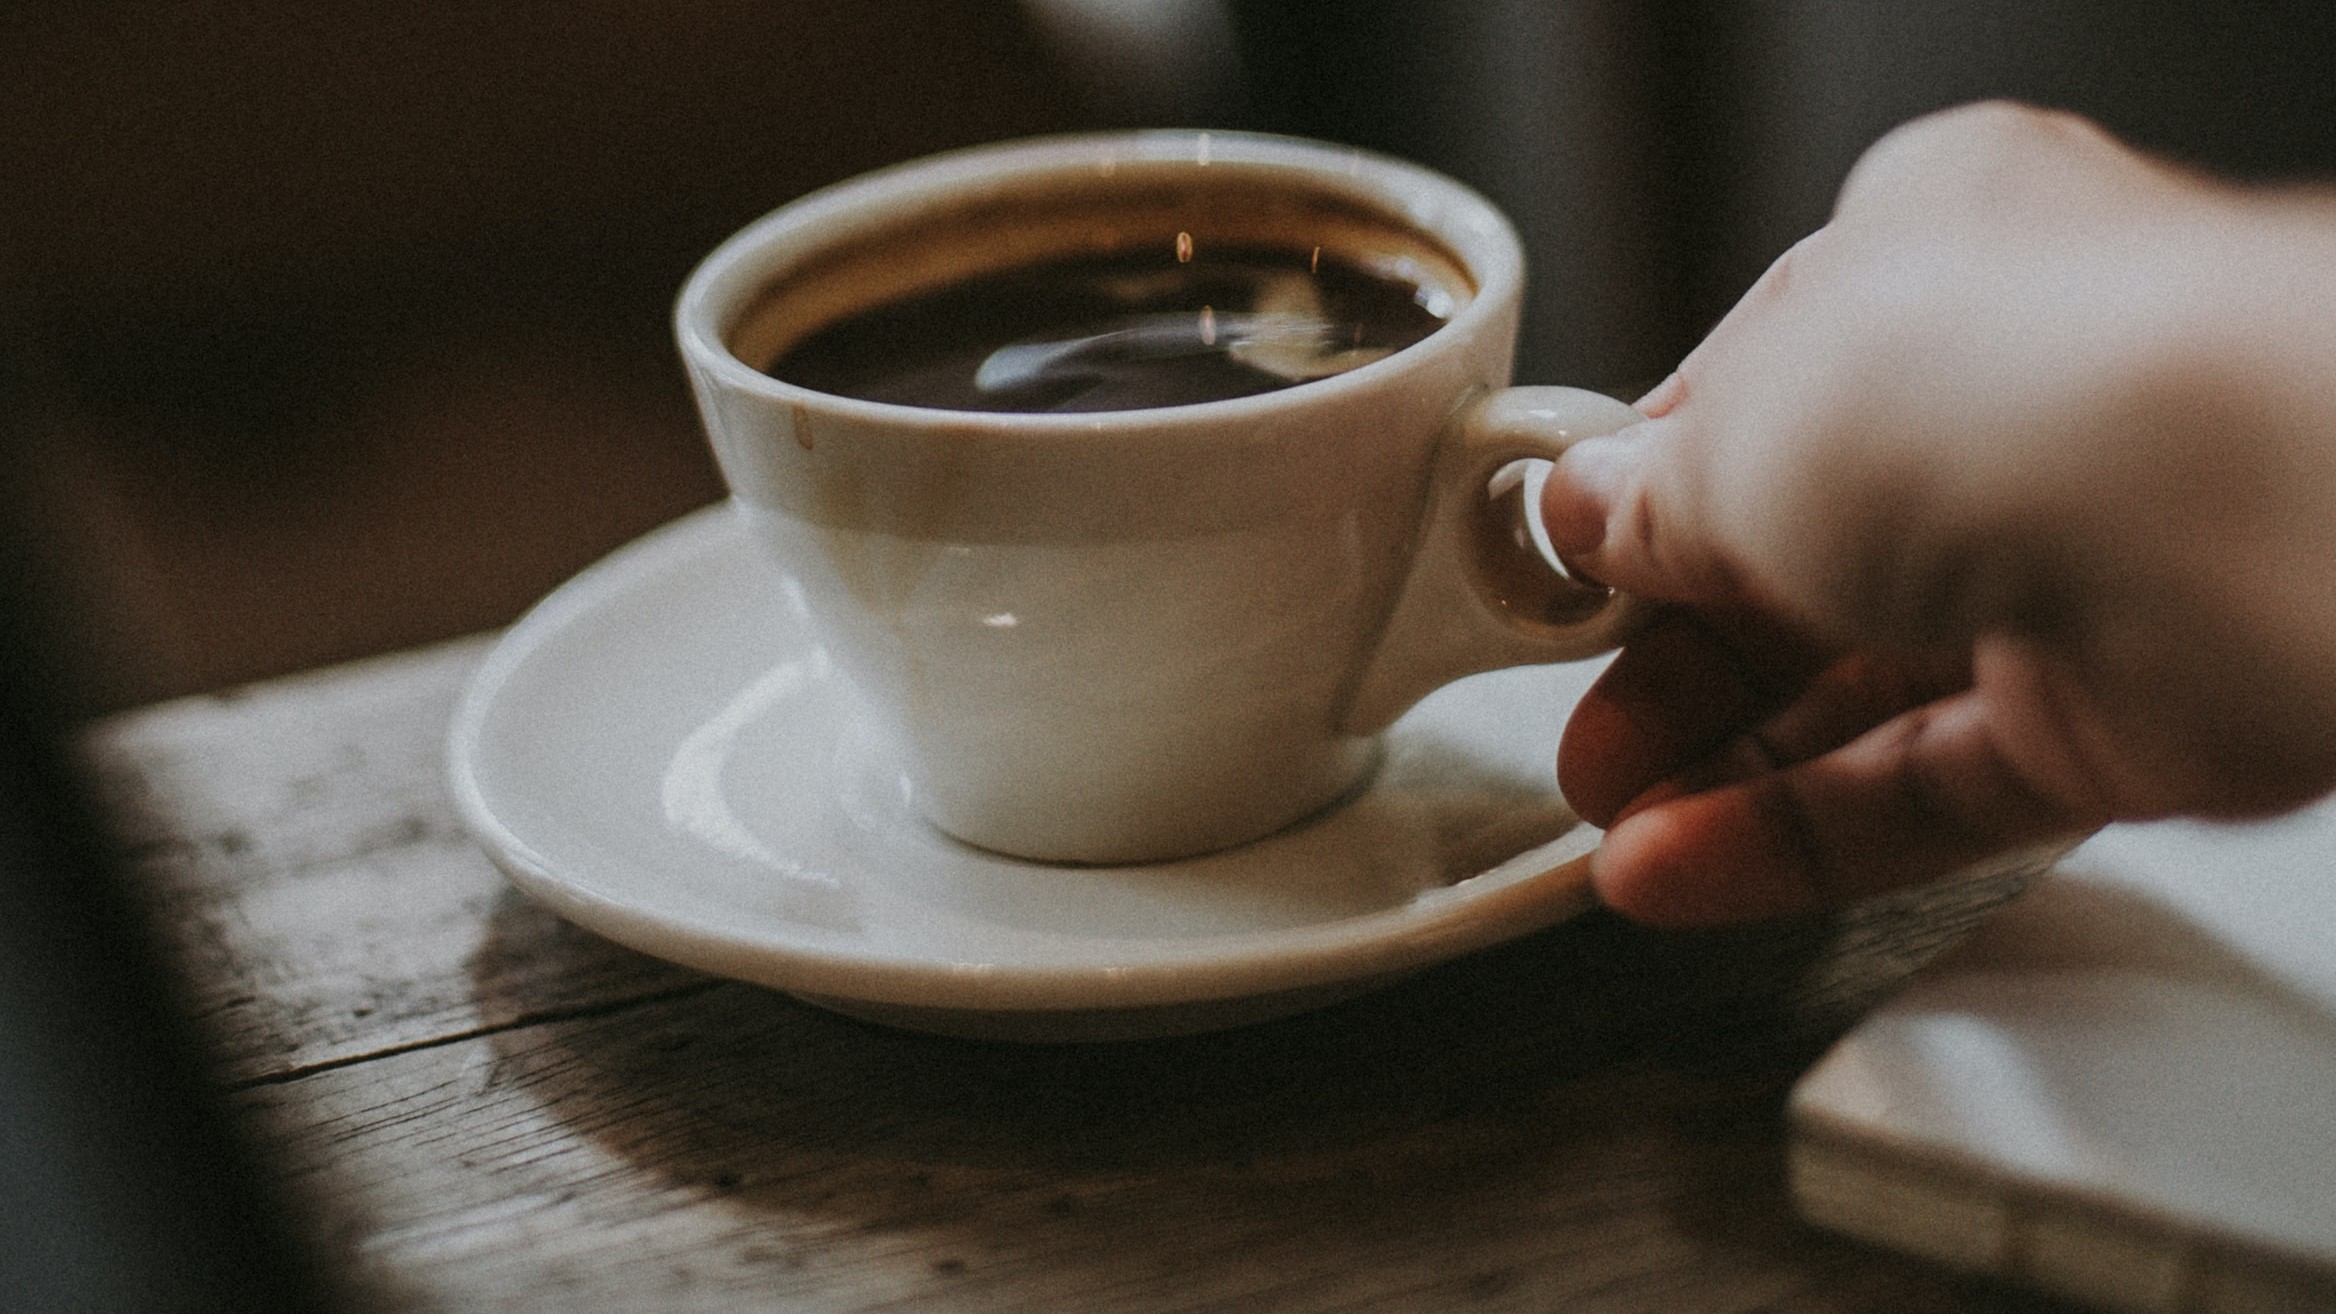
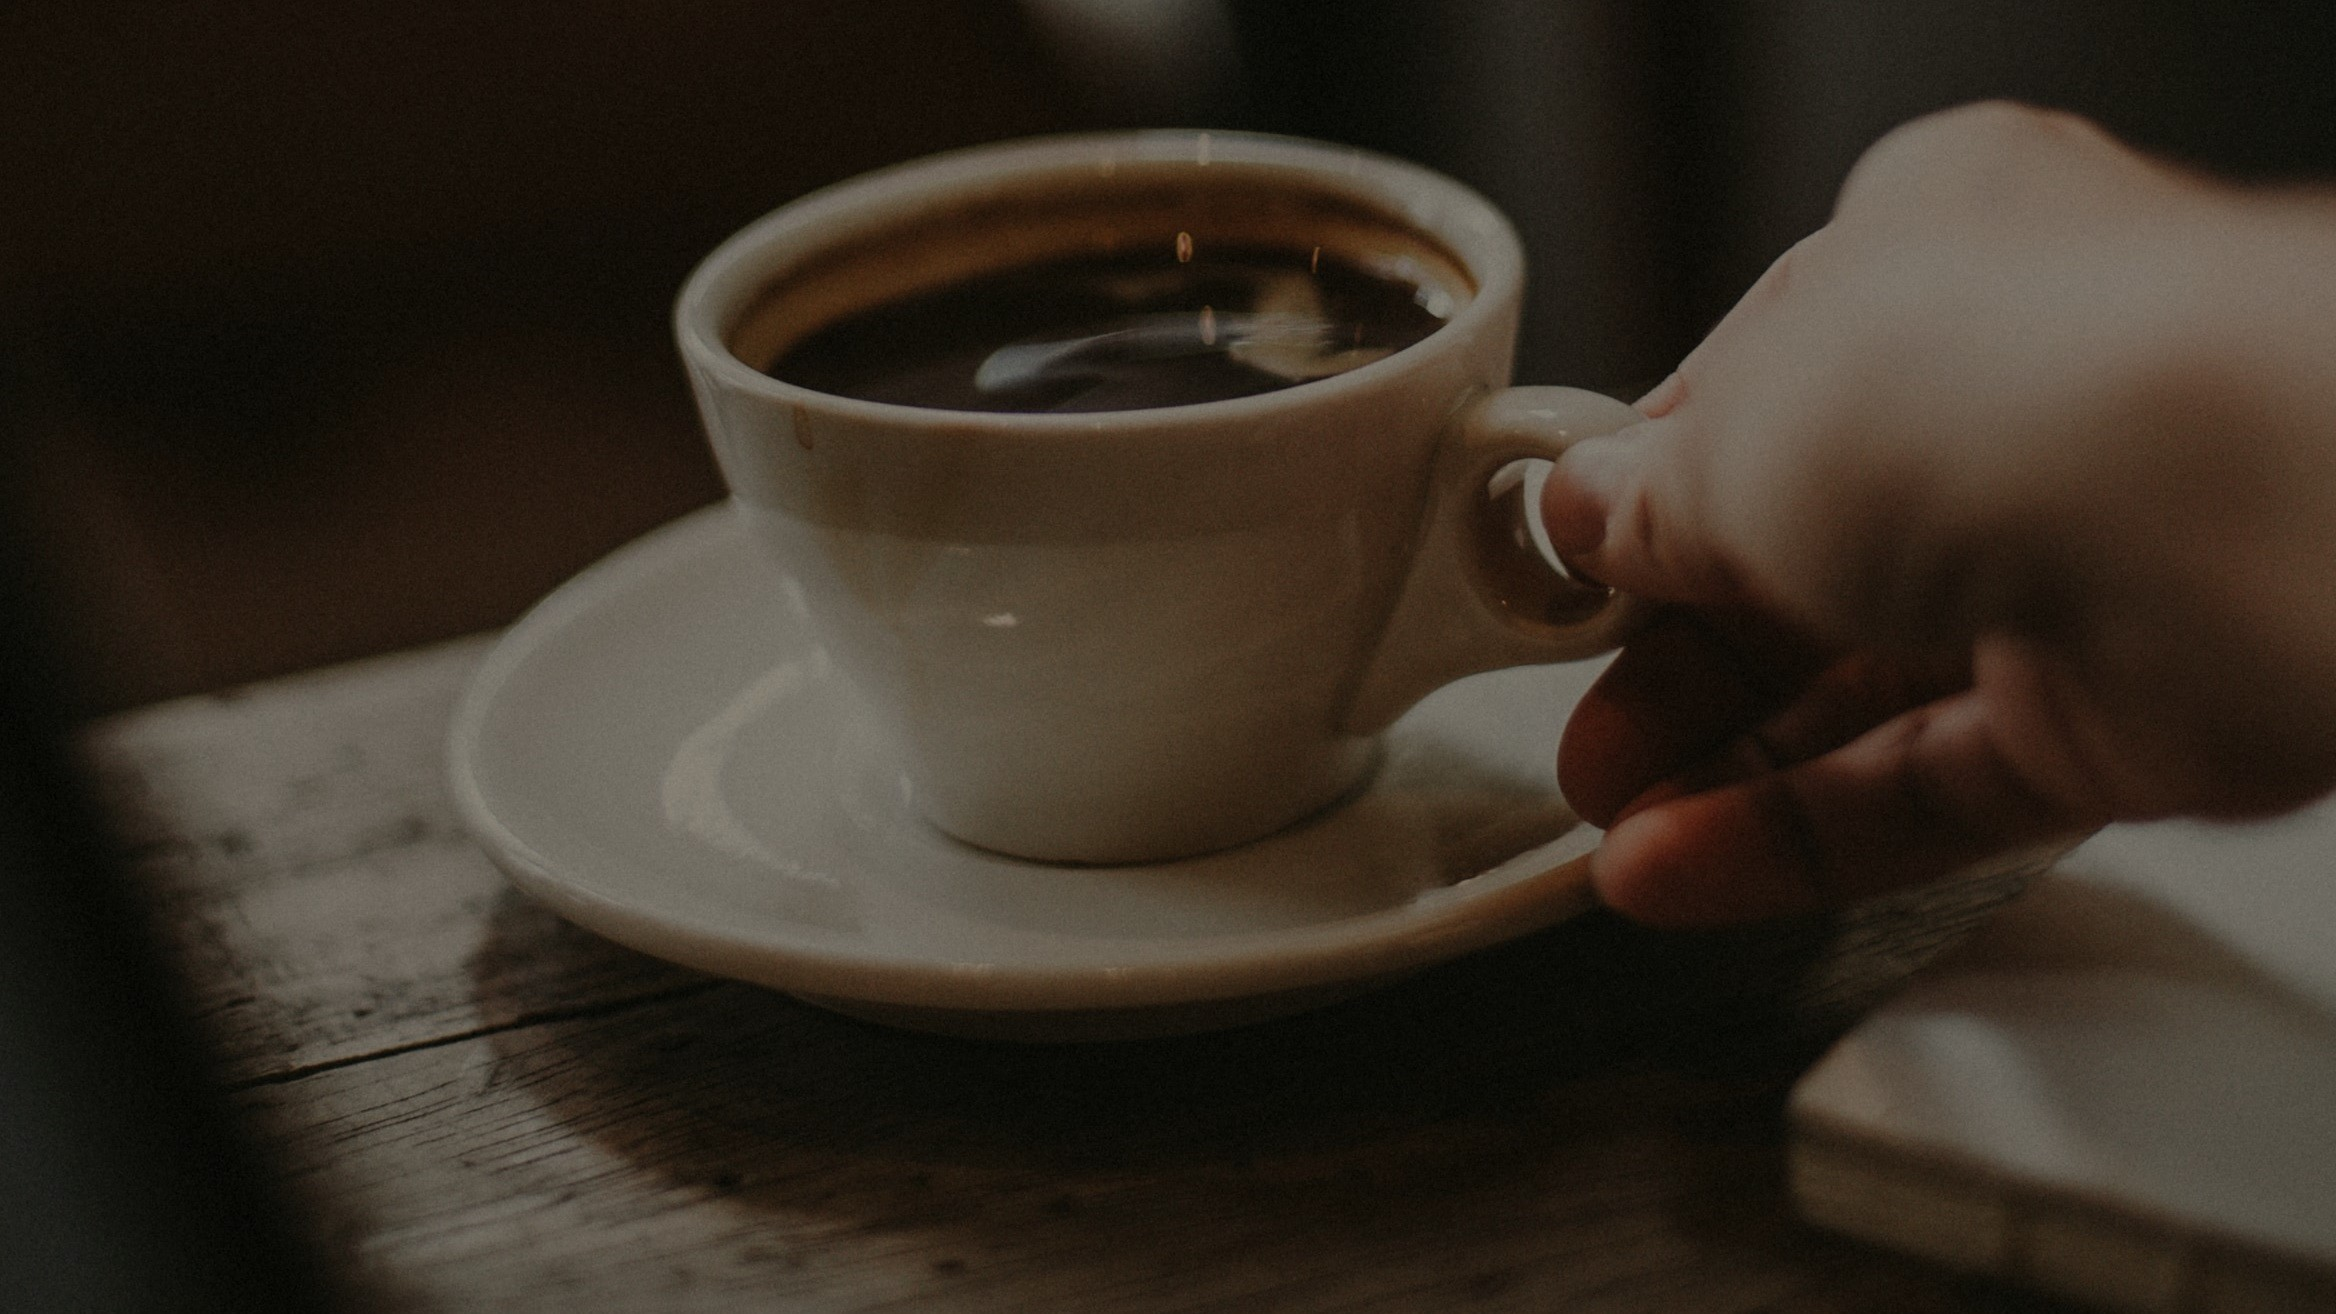
Mørkere bilde og brunfarge

diff --git a/Oblig1/hovedside/index_Versjon2.html b/Oblig1/hovedside/index_Versjon2.html
@@ -82,7 +82,7 @@
                 <div class="meny-kort-box">
                     <img src="../img/meny/kyllingsalat.jpg" alt="Brown serving tray with a cup of green tea on it." width=300px height=auto>
                     <h3>KYLLINGSALAT</h3>
-                    <p>Kyllingsalat med friske grønne blader, tomat, oliven og fetaost.</p>
+                    <p>Kyllingsalat med friske grønne blader, tomat, oliven og  fetaost.</p>
                     <p class="allergener">Allergener: Melk</p>
                 </div>
             </div>

diff --git a/Oblig1/hovedside/style_versjon2.css b/Oblig1/hovedside/style_versjon2.css
@@ -85,7 +85,7 @@ p{
     margin-bottom: 50px;
 }
 .meny-kort-box{
-    background-color: #33241F;
+    background-color: #16110f;
     max-width: 300px;
 }
 .meny-kort-box h3{
